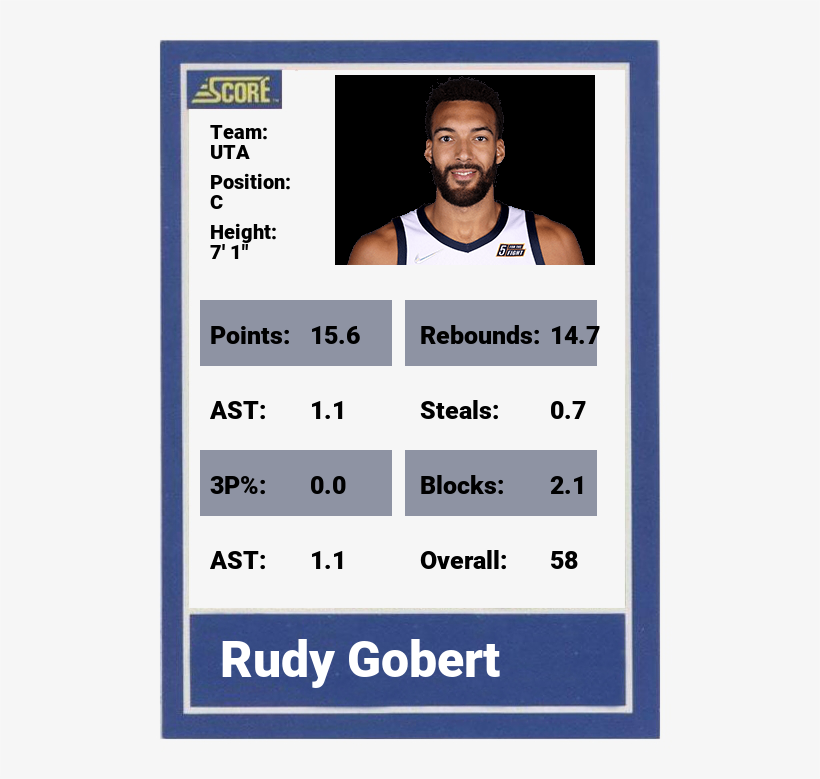
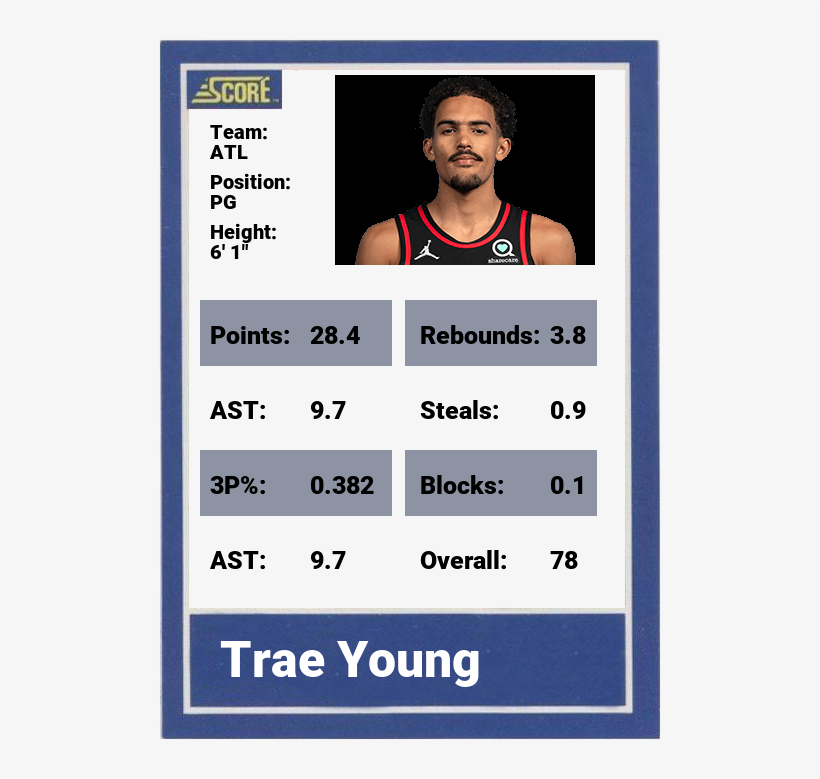
n

diff --git a/NBA_Cards.py b/NBA_Cards.py
@@ -187,7 +187,7 @@ Example Names:
 
 '''
 
-Input = "Rudy Gobert"
+Input = "Trae Young"
 showCard(Input)
 
 
